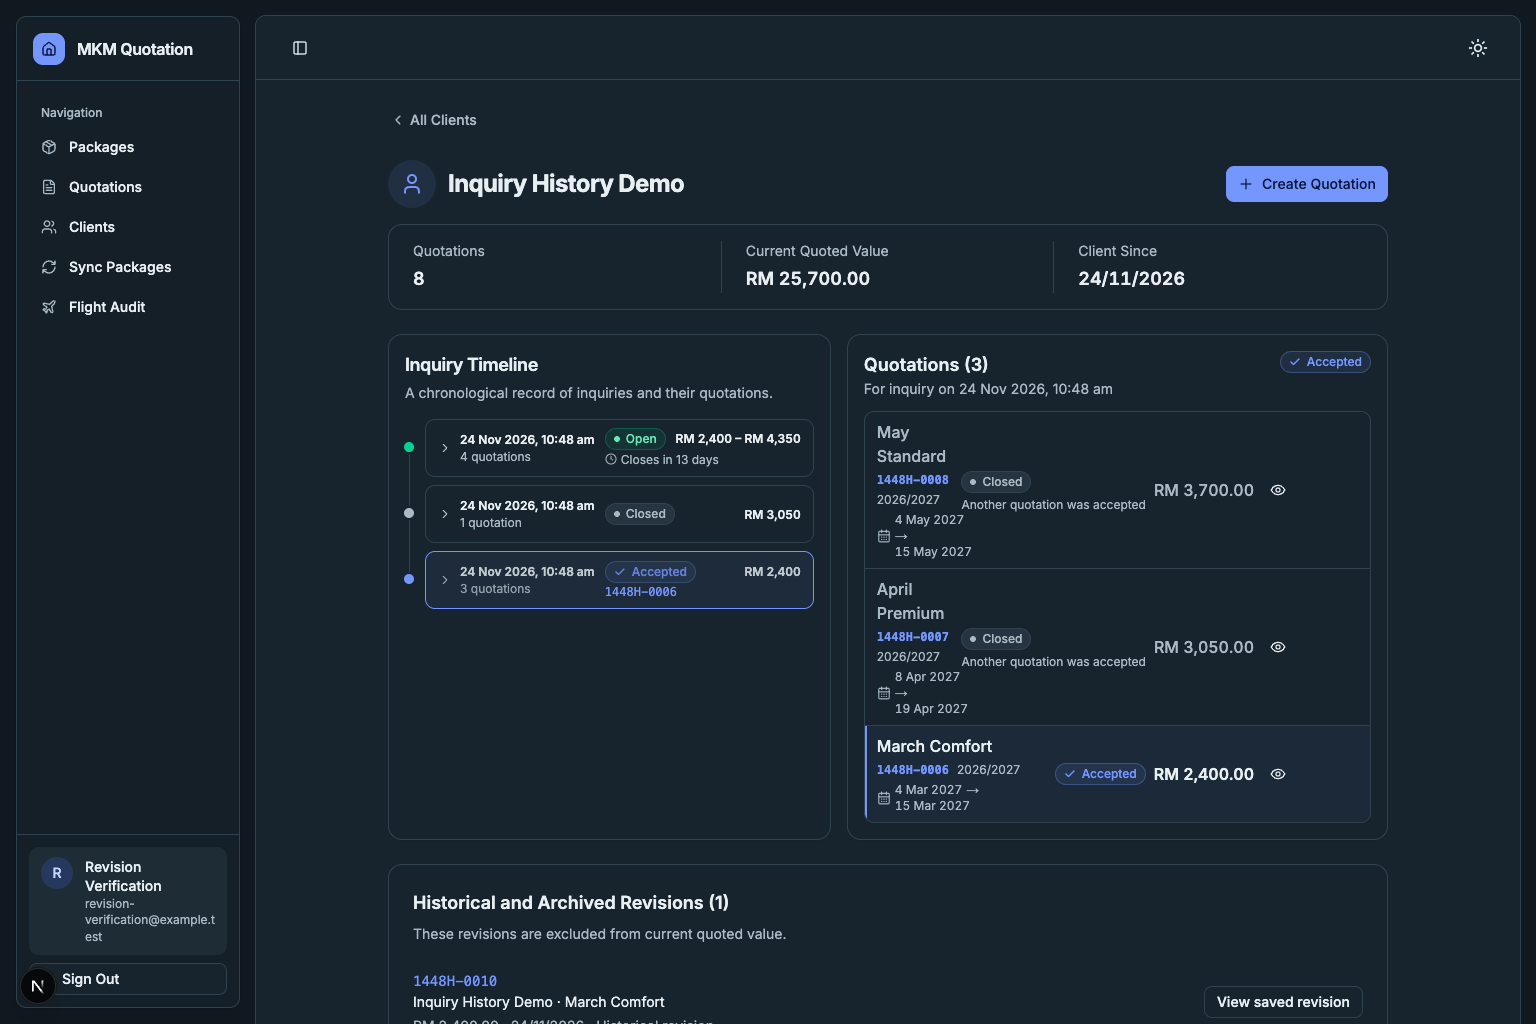
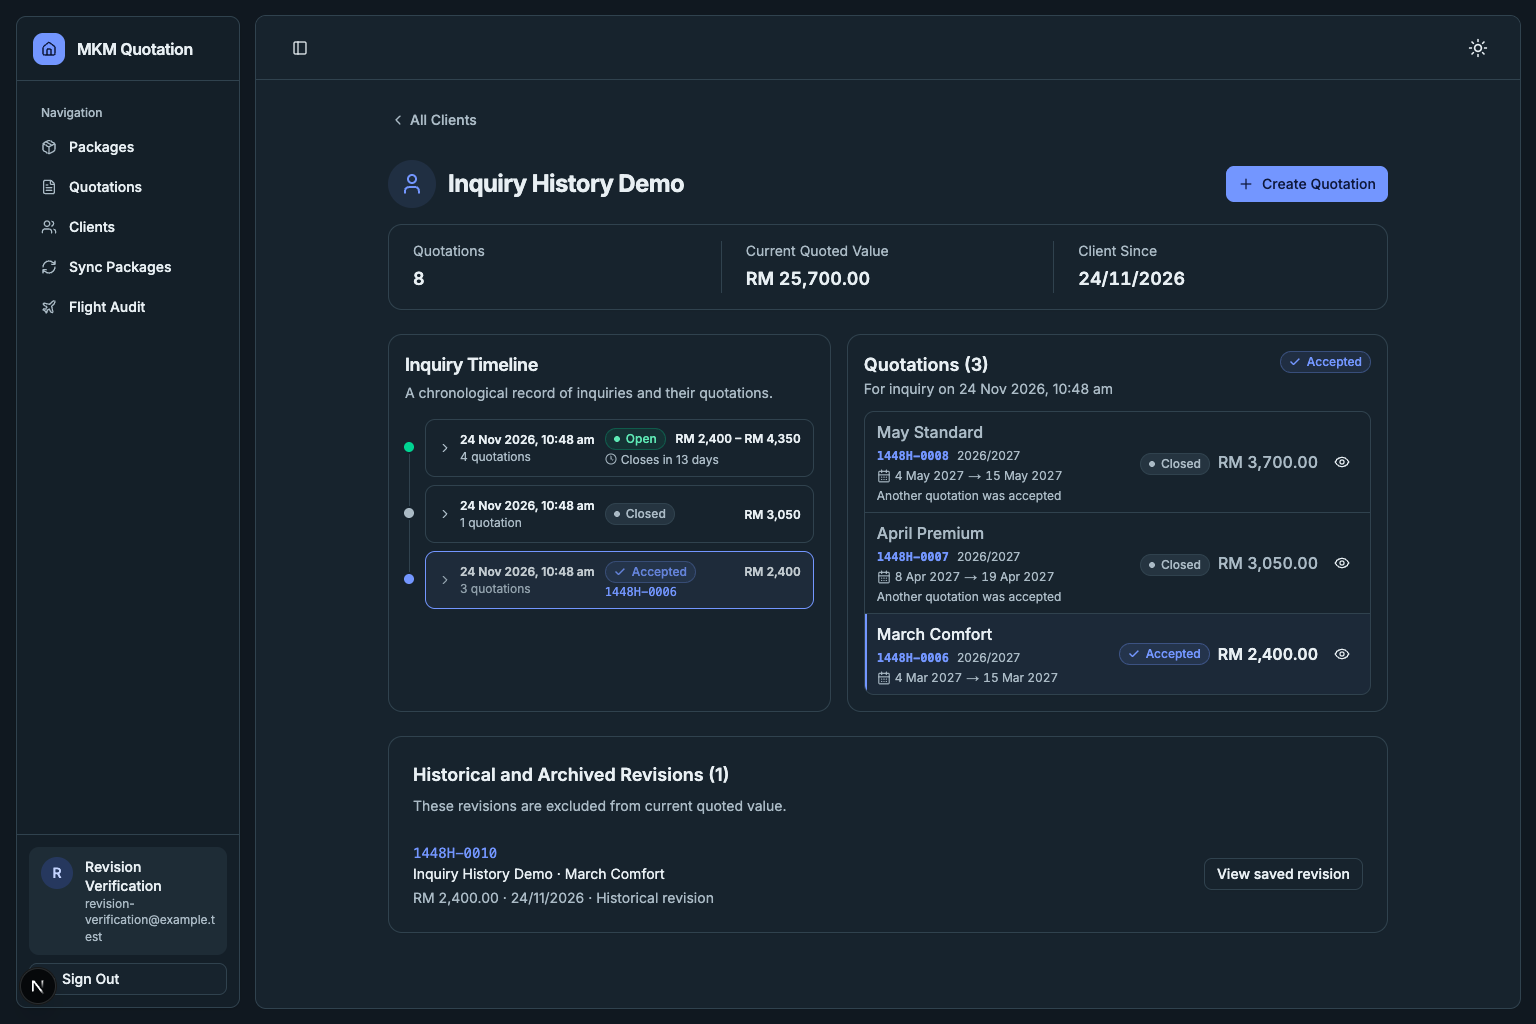
test(clients): refresh accepted inquiry layout proof

diff --git a/docs/evidence/client-inquiry-timeline/README.md b/docs/evidence/client-inquiry-timeline/README.md
@@ -1,6 +1,6 @@
 # Client detail Inquiry timeline
 
-Tested commit `c1e1cd2026d76e8db7cf995fced263a0cb8f071a` in Chrome against the disposable Inquiry History Demo fixture. The preview ran at `http://localhost:3561/clients/k174n2xbxp26jr6gynhzff033h8jt66b`.
+Tested commit `5a53dfe325bbf5102b1c784143e487046c078898` in Chrome against the disposable Inquiry History Demo fixture. The preview ran at `http://localhost:3561/clients/k174n2xbxp26jr6gynhzff033h8jt66b`.
 
 ## Captures
 
@@ -8,11 +8,13 @@ Tested commit `c1e1cd2026d76e8db7cf995fced263a0cb8f071a` in Chrome against the d
 | --- | --- |
 | Previous desktop detail | [Dark, 1536 × 1024](../client-detail-style-pass/after-dark.png) |
 | Desktop, Open Inquiry | [Dark, 1536 × 1024](desktop-open-dark.png) |
+| Accepted Inquiry before the quotation row fix | [Dark, 1536 × 1024](https://raw.githubusercontent.com/hasififwat/hasififwat-mkm-quotation-management-system/bb8d33d616e7b7dba202e4da890bac2fff1572a1/docs/evidence/client-inquiry-timeline/desktop-accepted-dark.png) |
 | Desktop, Accepted Inquiry | [Dark, 1536 × 1024](desktop-accepted-dark.png) · [Light, 1536 × 1024](desktop-accepted-light.png) |
-| Phone, 390 × 844 viewport | [Collapsed](mobile-collapsed-dark.png) · [Open Inquiry expanded](mobile-expanded-dark.png) |
+| Phone, 390 × 844 viewport | [Collapsed](mobile-collapsed-dark.png) · [Open Inquiry expanded](mobile-expanded-dark.png) · [Accepted Inquiry expanded](mobile-accepted-dark.png) |
 
 ## Browser checks
 
+- The Accepted pane fits each package name and travel date range on one line at 1536 px. The closure explanation appears below the quotation details. Read-only rows have space for one Preview action.
 - The Open badge and price range share a line at 1536 px and 390 px. The countdown sits beneath them. The page fits at 320 px without horizontal scrolling.
 - Desktop starts with the open Inquiry selected and shows four preview and edit links in the adjacent pane. Enter selects the closed Inquiry and shows its single read-only option. The accepted Inquiry shows three previews, including the exact accepted revision, and has zero edit links.
 - Resizing to phone width keeps the selected Inquiry and moves its quotations inline. Reloading the phone view collapses the cards. Space expands the open Inquiry, and the accepted Inquiry's fragment link expands the correct card.
